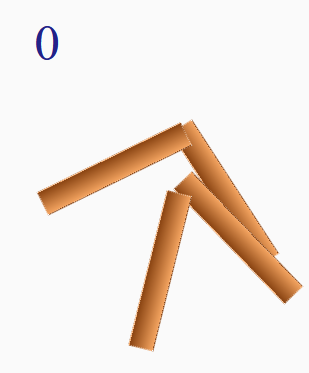
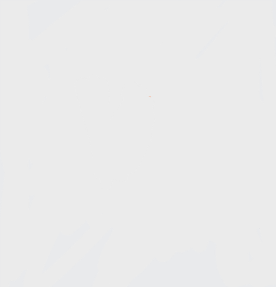
Debugging the ai player and some other small changes and debugs

Changed region(s): [[0.1159, 0.3066, 0.9855, 0.9477], [0.1159, 0.0557, 0.2029, 0.1672]]

diff --git a/gamelogic.js b/gamelogic.js
@@ -125,7 +125,6 @@ class Dice {
     constructor(onRoll) {
         this.rollButton = document.getElementById("rollDiceBtn"); // Button to roll the dice
         this.diceImage = document.getElementById("dice-image");   // Image element to show dice face
-        this.messageBox = document.getElementById("message-box"); // Message box for feedback
 
         this.result = null;                                      // Stores last dice result
         this.onRoll = onRoll;                                    // Callback to execute after rolling
@@ -137,8 +136,7 @@ class Dice {
 
     // === Rolls the dice according to a weighted probability distribution ===
     rollWeightedDice() {
-//        const probabilities = [0.06, 0.25, 0.38, 0.25, 0.06];  // Probabilities for 0–4
-        const probabilities = [0.01, 0.99];
+        const probabilities = [0.06, 0.25, 0.38, 0.25, 0.06];  // Probabilities for 0–4
         const random = Math.random();                           // Random number between 0 and 1
         let cumulative = 0;
 
@@ -321,7 +319,6 @@ class Game {
         }
 
         if (choices && choices[1] != null) {
-            this.board.showMessage("in choices if 1: ");
             if((this.board.pieces[choices[0]] && this.board.pieces[choices[0]].color === this.board.currentPlayer) 
                 && (this.board.pieces[choices[1]] && this.board.pieces[choices[1]].color === this.board.currentPlayer)) {
                 this.board.showMessage("You can't move onto your own piece!");
@@ -424,10 +421,6 @@ class Game {
         });
     }
 
-
-
-
-    // ========== CHANGED A FEW THINGS HERE ============ //
     // === Checks if either player has won the game and updates scoreboard ===
     checkWinCondition() {
         let hasRed = false, hasBlue = false;
@@ -635,6 +628,13 @@ class SidebarUI {
         } else {
             this.game.ai = null;
         }
+        if (this.game.ai && this.game.board.currentPlayer === "red") {
+            console.log("detected");
+            this.game.dice.rollButton.disabled = true; // Disable human roll
+            setTimeout(() => this.game.dice.rollDice(), 1500); // AI rolls automatically
+        } else {
+            this.game.dice.rollButton.disabled = false; // Enable for human
+        }
     }
     
     giveUp() {
@@ -689,14 +689,16 @@ class AIPlayer {
     async makeMove() {
         const playerColor = this.game.board.currentPlayer;
         const dice = this.game.diceResult;
-        let actionMessage = `${playerColor} (AI) rolled ${dice}. `;
+        let actionMessage = `Red (AI) rolled ${dice}. `;
     
         // Find all possible moves
         const possibleMoves = [];
         this.game.board.pieces.forEach((piece, index) => {
             if (!piece || piece.color !== playerColor) return;
             if (!piece.wasMoved && dice !== 1) return;
-    
+            // Skip move if piece is blocked by start-row rule
+            if (this.game.isBlockedByStartRow(piece)) return;
+
             const dest = this.game.getDestination(piece);
             if (dest == null) return;
     
@@ -707,11 +709,15 @@ class AIPlayer {
             possibleMoves.push({ piece, dest, score, target });
         });
     
+
         if (possibleMoves.length === 0) {
-            actionMessage += "No valid moves available — skipping turn.";
-            this.game.board.showMessage(actionMessage);
-            await new Promise(r => setTimeout(r, 1500));
-            this.game.skipTurn(true); //no duplicate message
+            if ([1,4,6].includes(dice)) {
+                await new Promise(r => setTimeout(r, 2000));
+                this.game.dice.rollDice(); 
+            } else {
+                await new Promise(r => setTimeout(r, 2000));
+                this.game.skipTurn(true);
+            }
             return;
         }
     
@@ -751,6 +757,7 @@ class AIPlayer {
             this.game.board.showMessage(actionMessage);
             await new Promise(r => setTimeout(r, 1500));
             this.game.switchTurn();
+            this.dice.resetDiceImage();
             this.game.dice.rollButton.disabled = false;
         }
     }
@@ -810,5 +817,5 @@ document.addEventListener("DOMContentLoaded", () => {
     game.setModeComputer("normal");
     game.ai = new AIPlayer(game, "normal"); 
 
-    game.board.showMessage("New game started: Player (Blue) vs AI (Red). Blue starts!");
+    game.board.showMessage("Default game started: Player (Blue) vs AI (Red). Blue starts! Start customizable game via sidebar.");
 });

diff --git a/game.html b/game.html
@@ -34,6 +34,7 @@
             </div>
 
             <h1>Tâb Game</h1> <!-- Main page heading, centered in top bar -->
+            <div class="spacer"></div>
         </div>
 
         <hr class="divider"> <!-- Divider line to separate sections -->

diff --git a/gamestyle.css b/gamestyle.css
@@ -128,6 +128,10 @@ h1 {
     /* Height of the top bar: 6 times the relative size defines as rem in the Root */
 }
 
+.spacer {
+    width: 10rem;
+}
+
 /* Style the main heading inside the top bar */
 .top-bar h1 {
     margin: 0 auto;
